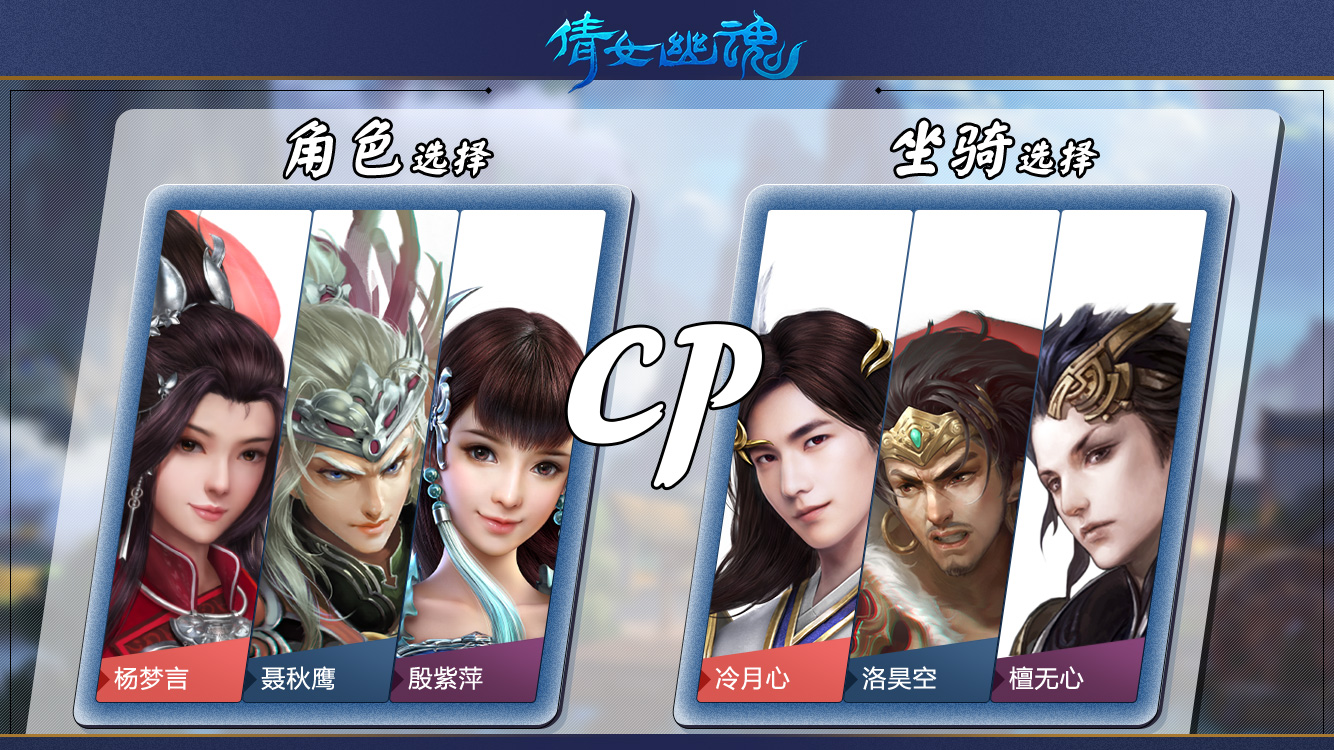
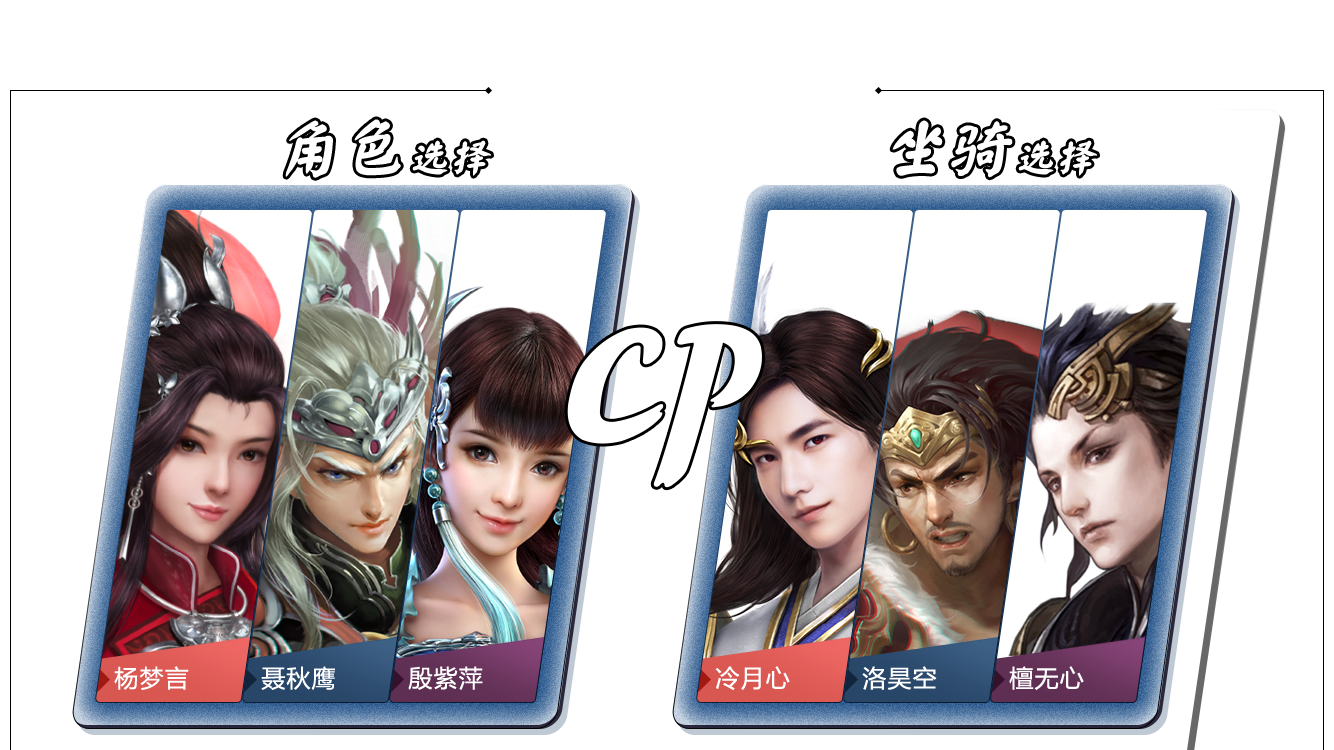
更新皮皮虾

diff --git a/static/demos/letsgopipixia/js/play.js b/static/demos/letsgopipixia/js/play.js
@@ -9,21 +9,26 @@ var playState = (function() {
         killed = false,
         talk,
         tip1,
-        tip2;
+        tip2,
+        runBtn,
+        jumpBtn;
 
     return {
         preload: function() {
-            $('.play-state-wrap').show();
             game.load.spritesheet('player', 'assets/player.png', 108, 100);
             game.load.tilemap('floor', 'assets/map1.json', null, Phaser.Tilemap.TILED_JSON);
             game.load.image('tiles-floor', 'assets/floor.png');
             game.load.image('talk', 'assets/talk.png');
             game.load.image('tip1', 'assets/tip1.png');
             game.load.image('tip2', 'assets/tip2.png');
+            game.load.spritesheet('run', 'assets/run.png', 100, 100);
+            game.load.spritesheet('jump', 'assets/jump.png', 100, 100);
             game.load.spritesheet('enemy', 'assets/enemy.png', 46, 30);
             game.load.spritesheet('xiaoqian', 'assets/xiaoqian.png', 42, 100);
         },
         create: function() {
+            game.load.onLoadComplete.add(resetTime, this);
+
             // 重置killed状态
             killed = false;
 
@@ -50,16 +55,12 @@ var playState = (function() {
             player.body.gravity.y = 1000;
             player.body.collideWorldBounds = true;
 
-            player.inputEnabled = true;
-            player.events.onInputDown.add(function() {
-                player.position.x += 80;
-            });
-
             //  玩家动画
             player.animations.add('right', [0, 1], 10, true);
 
             // 镜头跟随
-            game.camera.follow(player, Phaser.Camera.STYLE_LOCKON, 1, 1);
+            // game.camera.follow(player, Phaser.Camera.STYLE_LOCKON, 1, 1);
+            game.camera.y = HEIGHT - 80
 
             // 对话框
             talk = game.add.image(32 + 40, 50 - 60, 'talk');
@@ -86,17 +87,30 @@ var playState = (function() {
             xiaoqian.body.gravity.y = 1000;
 
             // 地图上方小倩对话框
-            tip1 = game.add.image(WIDTH / 2, HEIGHT / 2 - 100, 'tip1');
+            tip1 = game.add.image(WIDTH / 2, 120, 'tip1');
             tip1.anchor.setTo(0.5, 0.5);
             tip1.scale.set(0.4);
             tip1.fixedToCamera = true;
             tip1.visible = false;
 
-            tip2 = game.add.image(WIDTH / 2, HEIGHT / 2 - 100, 'tip2');
+            tip2 = game.add.image(WIDTH / 2, 120, 'tip2');
             tip2.anchor.setTo(0.5, 0.5);
             tip2.scale.set(0.4);
             tip2.fixedToCamera = true;
             tip2.visible = false;
+
+            if (!support) {
+                runBtn = game.add.button(60, HEIGHT - 50, 'run', null, this, 0, 0, 1);
+                runBtn.anchor.setTo(0.5, 0.5);
+                runBtn.scale.set(0.5);
+                runBtn.fixedToCamera = true;
+
+
+                jumpBtn = game.add.button(WIDTH - 60, HEIGHT - 50, 'jump', null, this, 0, 0, 1);
+                jumpBtn.anchor.setTo(0.5, 0.5);
+                jumpBtn.scale.set(0.5);
+                jumpBtn.fixedToCamera = true;
+            }
         },
         update: function() {
             var volume = meter ? meter.volume * 1000 : 0,
@@ -104,6 +118,8 @@ var playState = (function() {
 
             //  重置速度
             player.body.velocity.x = 0;
+
+            game.camera.x = player.position.x - 50;
 
             // 下落死亡逻辑
             if (player.position.y >= game.world.height - 105) {
@@ -127,7 +143,7 @@ var playState = (function() {
                 talk.position.x = player.position.x + 40;
                 talk.position.y = player.position.y - 60;
             } else {
-                talk.visible = false;
+                talk.kill();
             }
 
             // 小倩对话框
@@ -173,22 +189,37 @@ var playState = (function() {
             game.physics.arcade.overlap(player, enemyGroup, this.killed, null, this);
 
             // 更新玩家速度
-            if (volume > 20) {
-                if (volume > MAX_SPEED) {
-                    player.body.velocity.x = MAX_SPEED;
+            if (support) {
+                if (volume > 20) {
+                    if (volume > MAX_SPEED) {
+                        player.body.velocity.x = MAX_SPEED;
+                    } else {
+                        player.body.velocity.x = volume;
+                    }
+                    player.animations.play('right');
                 } else {
-                    player.body.velocity.x = volume;
+                    player.body.velocity.x = 0;
+                    player.animations.stop();
+                    player.frame = 0;
                 }
-                player.animations.play('right');
             } else {
-                player.body.velocity.x = 0;
-                player.animations.stop();
-                player.frame = 0;
+                if (runBtn.frame == 1) {
+                    player.body.velocity.x = MAX_SPEED;
+                    player.animations.play('right');
+                } else {
+                    player.animations.stop();
+                }
             }
 
             // 玩家跳跃
-            if (volume > JUMP_SPEED && (player.body.touching.down || collideWithFloor) && player.position.y < 440) {
-                player.body.velocity.y = -550;
+            if (support) {
+                if (volume > JUMP_SPEED && (player.body.touching.down || collideWithFloor) && player.position.y < 440) {
+                    player.body.velocity.y = -550;
+                }
+            } else {
+                if (jumpBtn.frame == 1 && (player.body.touching.down || collideWithFloor) && player.position.y < 440) {
+                    player.body.velocity.y = -550;
+                }
             }
 
             // 完成游戏逻辑
@@ -198,12 +229,9 @@ var playState = (function() {
             // }
 
             // 更新游戏背景位置，凸显层次感
-            $('.bg-img').css({
-                'transform': 'translateX(' + -game.camera.x * 0.2 + 'px)'
-            });
-        },
-        render: function() {
-            if (!timeSinceLastGame) timeSinceLastGame = game.time.now;
+            // $('.bg-img').css({
+            //     'transform': 'translateX(' + -game.camera.x * 0.2 + 'px)'
+            // });
         },
 
         killed: function(player, enemy) {
@@ -219,4 +247,8 @@ var playState = (function() {
         }
     }
 
-}())
+    function resetTime() {
+        timeSinceLastGame = game.time.now;
+    }
+
+}());

diff --git a/static/demos/letsgopipixia/js/menu.js b/static/demos/letsgopipixia/js/menu.js
@@ -1,18 +1,26 @@
 var menuState = (function() {
-    var menu, mask, start, heart;
+    var menu, mask, start, heart, wholeMask;
 
     function showStart() {
         mask.kill();
+
+        wholeMask = game.add.image(WIDTH / 2, HEIGHT / 2, 'mask');
+        wholeMask.anchor.setTo(0.5, 0.5);
+        wholeMask.scale.set(WIDTH / wholeMask.height, HEIGHT / wholeMask.height);
+        wholeMask.inputEnabled = true;
+        wholeMask.events.onInputDown.add(startGame, game);
+        
         start = game.add.image(WIDTH / 2, HEIGHT / 2, 'menu-start');
         start.anchor.setTo(0.5, 0.5);
-        start.scale.set(WIDTH / start.width, HEIGHT / start.height);
+        start.scale.set(HEIGHT / start.height, HEIGHT / start.height);
         start.inputEnabled = true;
         start.events.onInputDown.add(startGame, game);
 
         heart = game.add.sprite(WIDTH / 2, HEIGHT / 2 - 200, 'menu-heart');
-        heart.scale.set(WIDTH / start.width, HEIGHT / start.height);
+        heart.scale.set(HEIGHT / start.height, HEIGHT / start.height);
         heart.animations.add('flow', [0, 1, 2, 3, 4, 5, 6], 10, true);
         heart.animations.play('flow', null, true);
+
     }
 
     function startGame() {
@@ -23,17 +31,18 @@ var menuState = (function() {
         preload: function() {
             game.load.image('menu-bg', 'assets/menu-bg.jpg');
             game.load.image('menu-mask', 'assets/menu-mask.png');
+            game.load.image('mask', 'assets/mask.png');
             game.load.image('menu-start', 'assets/menu-start.png');
             game.load.spritesheet('menu-heart', 'assets/heart.png', 228, 183);
         },
         create: function() {
             menu = game.add.image(WIDTH / 2, HEIGHT / 2, 'menu-bg');
             menu.anchor.setTo(0.5, 0.5);
-            menu.scale.set(WIDTH / menu.width, HEIGHT / menu.height);
+            menu.scale.set(HEIGHT / menu.height, HEIGHT / menu.height);
 
             mask = game.add.image(WIDTH / 2, HEIGHT / 2, 'menu-mask');
             mask.anchor.setTo(0.5, 0.5);
-            mask.scale.set(WIDTH / mask.width, HEIGHT / mask.height);
+            mask.scale.set(HEIGHT / mask.height, HEIGHT / mask.height);
             mask.inputEnabled = true;
             mask.events.onInputDown.add(showStart, game);
 

diff --git a/static/demos/letsgopipixia/js/gameOver.js b/static/demos/letsgopipixia/js/gameOver.js
@@ -4,7 +4,6 @@ var gameOverState = (function() {
         repickBtn;
     return {
         preload: function() {
-            $('.play-state-wrap').show();
             game.load.image('mask', 'assets/mask.png');
             game.load.image('restartBtn', 'assets/restart.png');
             game.load.image('repickBtn', 'assets/repick.png');
@@ -12,18 +11,18 @@ var gameOverState = (function() {
         create: function() {
             mask = game.add.image(WIDTH/2, HEIGHT/2, 'mask');
 
-            var scaleX = WIDTH / mask.width,
+            var scaleX = HEIGHT / mask.height,
                 scaleY = HEIGHT / mask.height;
 
             mask.anchor.setTo(0.5, 0.5);
-            mask.scale.set(scaleX, scaleY);
+            mask.scale.set(WIDTH / mask.width, HEIGHT / mask.height);
 
-            restartBtn = game.add.button(WIDTH/2 + 25, HEIGHT/2 - 60, 'restartBtn', this.restartGame, this);
-            restartBtn.anchor.setTo(0.5, 0.5);
+            restartBtn = game.add.button(WIDTH/2 - 85, HEIGHT/2 - 60, 'restartBtn', this.restartGame, this);
+            restartBtn.anchor.setTo(0, 0.5);
             restartBtn.scale.set(scaleX, scaleY);
 
-            repickBtn = game.add.button(WIDTH/2, HEIGHT/2 + 70, 'repickBtn', this.repickCp, this);
-            repickBtn.anchor.setTo(0.5, 0.5);
+            repickBtn = game.add.button(WIDTH/2 - 85, HEIGHT/2 + 70, 'repickBtn', this.repickCp, this);
+            repickBtn.anchor.setTo(0, 0.5);
             repickBtn.scale.set(scaleX, scaleY);
         },
         update: function() {
@@ -35,7 +34,6 @@ var gameOverState = (function() {
             game.state.start('play');
         },
         repickCp: function() {
-            $('.play-state-wrap').hide();
             game.state.start('menu');
         }
     };

diff --git a/static/demos/letsgopipixia/js/gameComplete.js b/static/demos/letsgopipixia/js/gameComplete.js
@@ -8,7 +8,6 @@ var gameCompleteState = (function() {
 
     return {
         preload: function (){
-            $('.play-state-wrap').show();
             game.load.image('again', 'assets/again.png');
             game.load.image('share', 'assets/share.png');
             game.load.image('mask', 'assets/mask.png');
@@ -18,18 +17,18 @@ var gameCompleteState = (function() {
         create: function() {
             mask = game.add.image(WIDTH/2, HEIGHT/2, 'mask');
 
-            var scaleX = WIDTH / mask.width,
+            var scaleX = HEIGHT / mask.height,
                 scaleY = HEIGHT / mask.height;
 
             mask.anchor.setTo(0.5, 0.5);
-            mask.scale.set(scaleX, scaleY);
+            mask.scale.set(WIDTH / mask.width, HEIGHT / mask.height);
 
-            againBtn = game.add.button(WIDTH/2 - 120, HEIGHT/2 + 80, 'again', this.restartGame, this);
-            againBtn.anchor.setTo(0.5, 0.5);
+            againBtn = game.add.button(WIDTH/2 - 120, HEIGHT/2 + 140, 'again', this.restartGame, this);
+            againBtn.anchor.setTo(0.5, 1);
             againBtn.scale.set(scaleX, scaleY);
 
-            shareBtn = game.add.button(WIDTH/2 + 120, HEIGHT/2 + 115, 'share', this.share, this);
-            shareBtn.anchor.setTo(0.5, 0.5);
+            shareBtn = game.add.button(WIDTH/2 + 120, HEIGHT/2 + 140, 'share', this.share, this);
+            shareBtn.anchor.setTo(0.5, 1);
             shareBtn.scale.set(scaleX, scaleY);
 
             word = game.add.image(WIDTH/2 - 40, HEIGHT/2 + 60, 'word');

diff --git a/static/demos/letsgopipixia/index.html b/static/demos/letsgopipixia/index.html
@@ -17,9 +17,6 @@
         top: 0;
         z-index: 2;
     }
-    .play-state-wrap {
-        display: none;
-    }
     .bg-img {
         display: block;
         width: auto;
@@ -76,11 +73,9 @@
     <script src="./js/main.js"></script>
 </head>
 <body>
-    <div class="play-state-wrap">
-        <img class="bg-img" src="./assets/background.jpg" alt="">
-        <div class="top-bar"></div>
-        <div class="bottom-bar"></div>
-        <div class="logo"></div>
-    </div>
+    <img class="bg-img" src="./assets/background.jpg" alt="">
+    <div class="top-bar"></div>
+    <div class="bottom-bar"></div>
+    <div class="logo"></div>
 </body>
 </html>

diff --git a/static/demos/letsgopipixia/js/main.js b/static/demos/letsgopipixia/js/main.js
@@ -32,7 +32,7 @@ window.onload = function() {
             },
         }, gotStream, didntGetStream);
     } catch (e) {
-        alert('你使用的浏览器不支持该游戏');
+        alert('你使用的浏览器不支持麦克风，请用按钮操作');
     }
     initPhaser();
 }
@@ -49,6 +49,7 @@ function gotStream(stream) {
     // Create a new volume meter and connect it.
     meter = createAudioMeter(audioContext);
     mediaStreamSource.connect(meter);
+    support = true;
 
     // kick off the visual updating
     // initPhaser();

diff --git a/static/demos/letsgopipixia/js/video.js b/static/demos/letsgopipixia/js/video.js
@@ -10,11 +10,11 @@ var videoState = (function() {
         create: function() {
             video = game.add.video('start');
 
-            video.play(true);
-            video.loop = false;
-
             //  x, y, anchor x, anchor y, scale x, scale y
             video.addToWorld(WIDTH / 2, HEIGHT / 2, 0.5, 0.5, WIDTH / video.width, HEIGHT / video.height);
+
+            video.play(true);
+            video.loop = false;
 
             // video.onComplete = function() {
             //     game.state.start('play');

diff --git a/static/demos/letsgopipixia/js/variable.js b/static/demos/letsgopipixia/js/variable.js
@@ -2,6 +2,7 @@ var audioContext = null;
 var meter = null;
 var WIDTH = 800;
 var HEIGHT = 640;
+var support = false;
 
 var game;
 var time = 0; // 游戏时长
